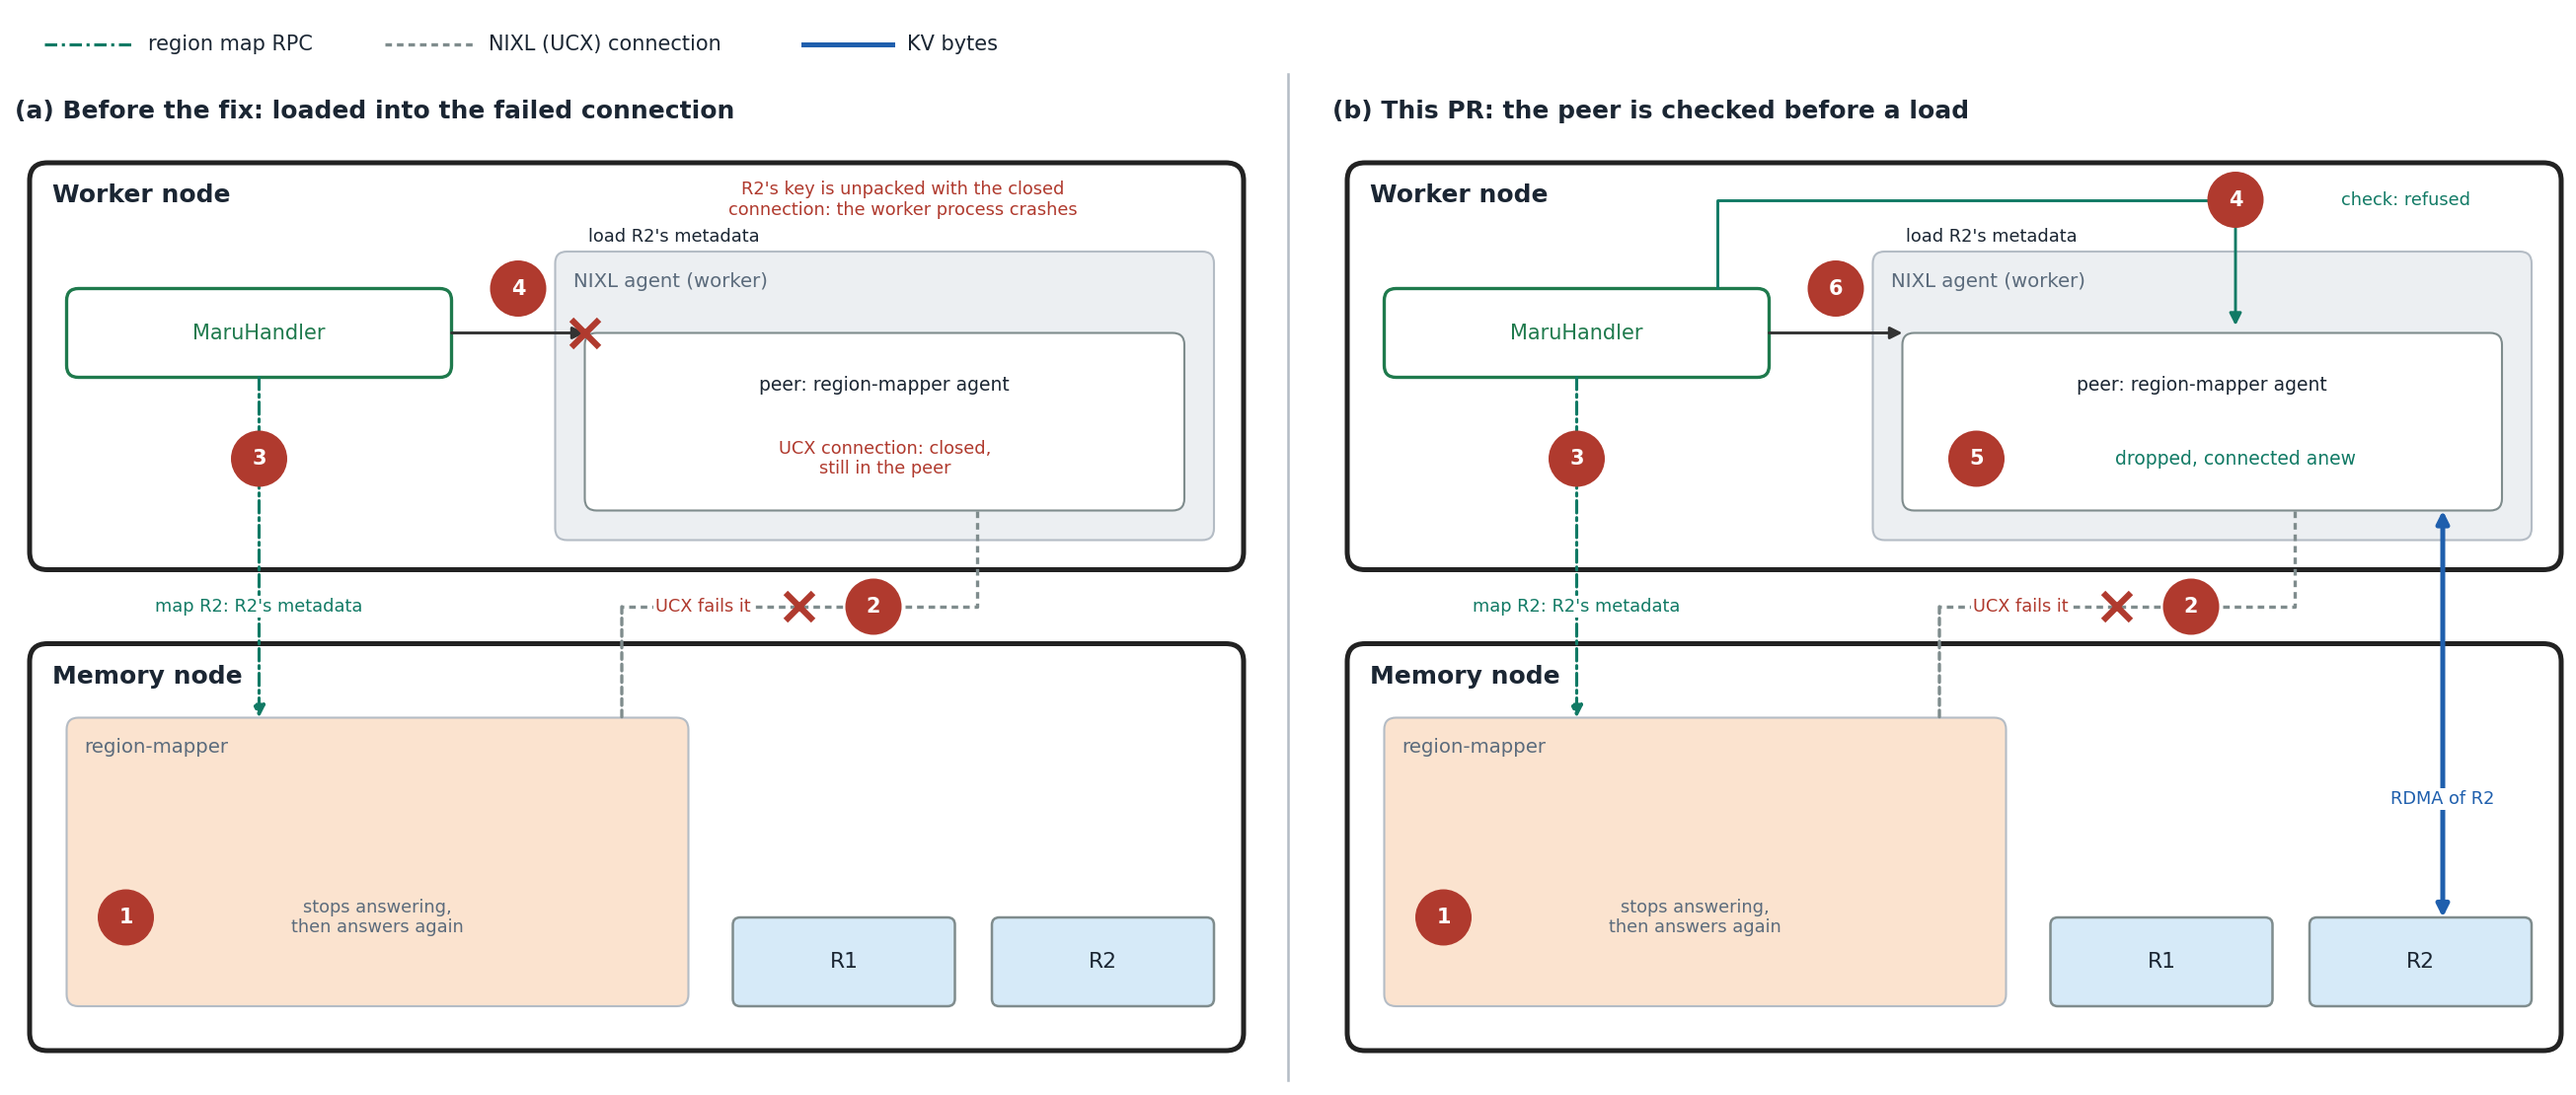
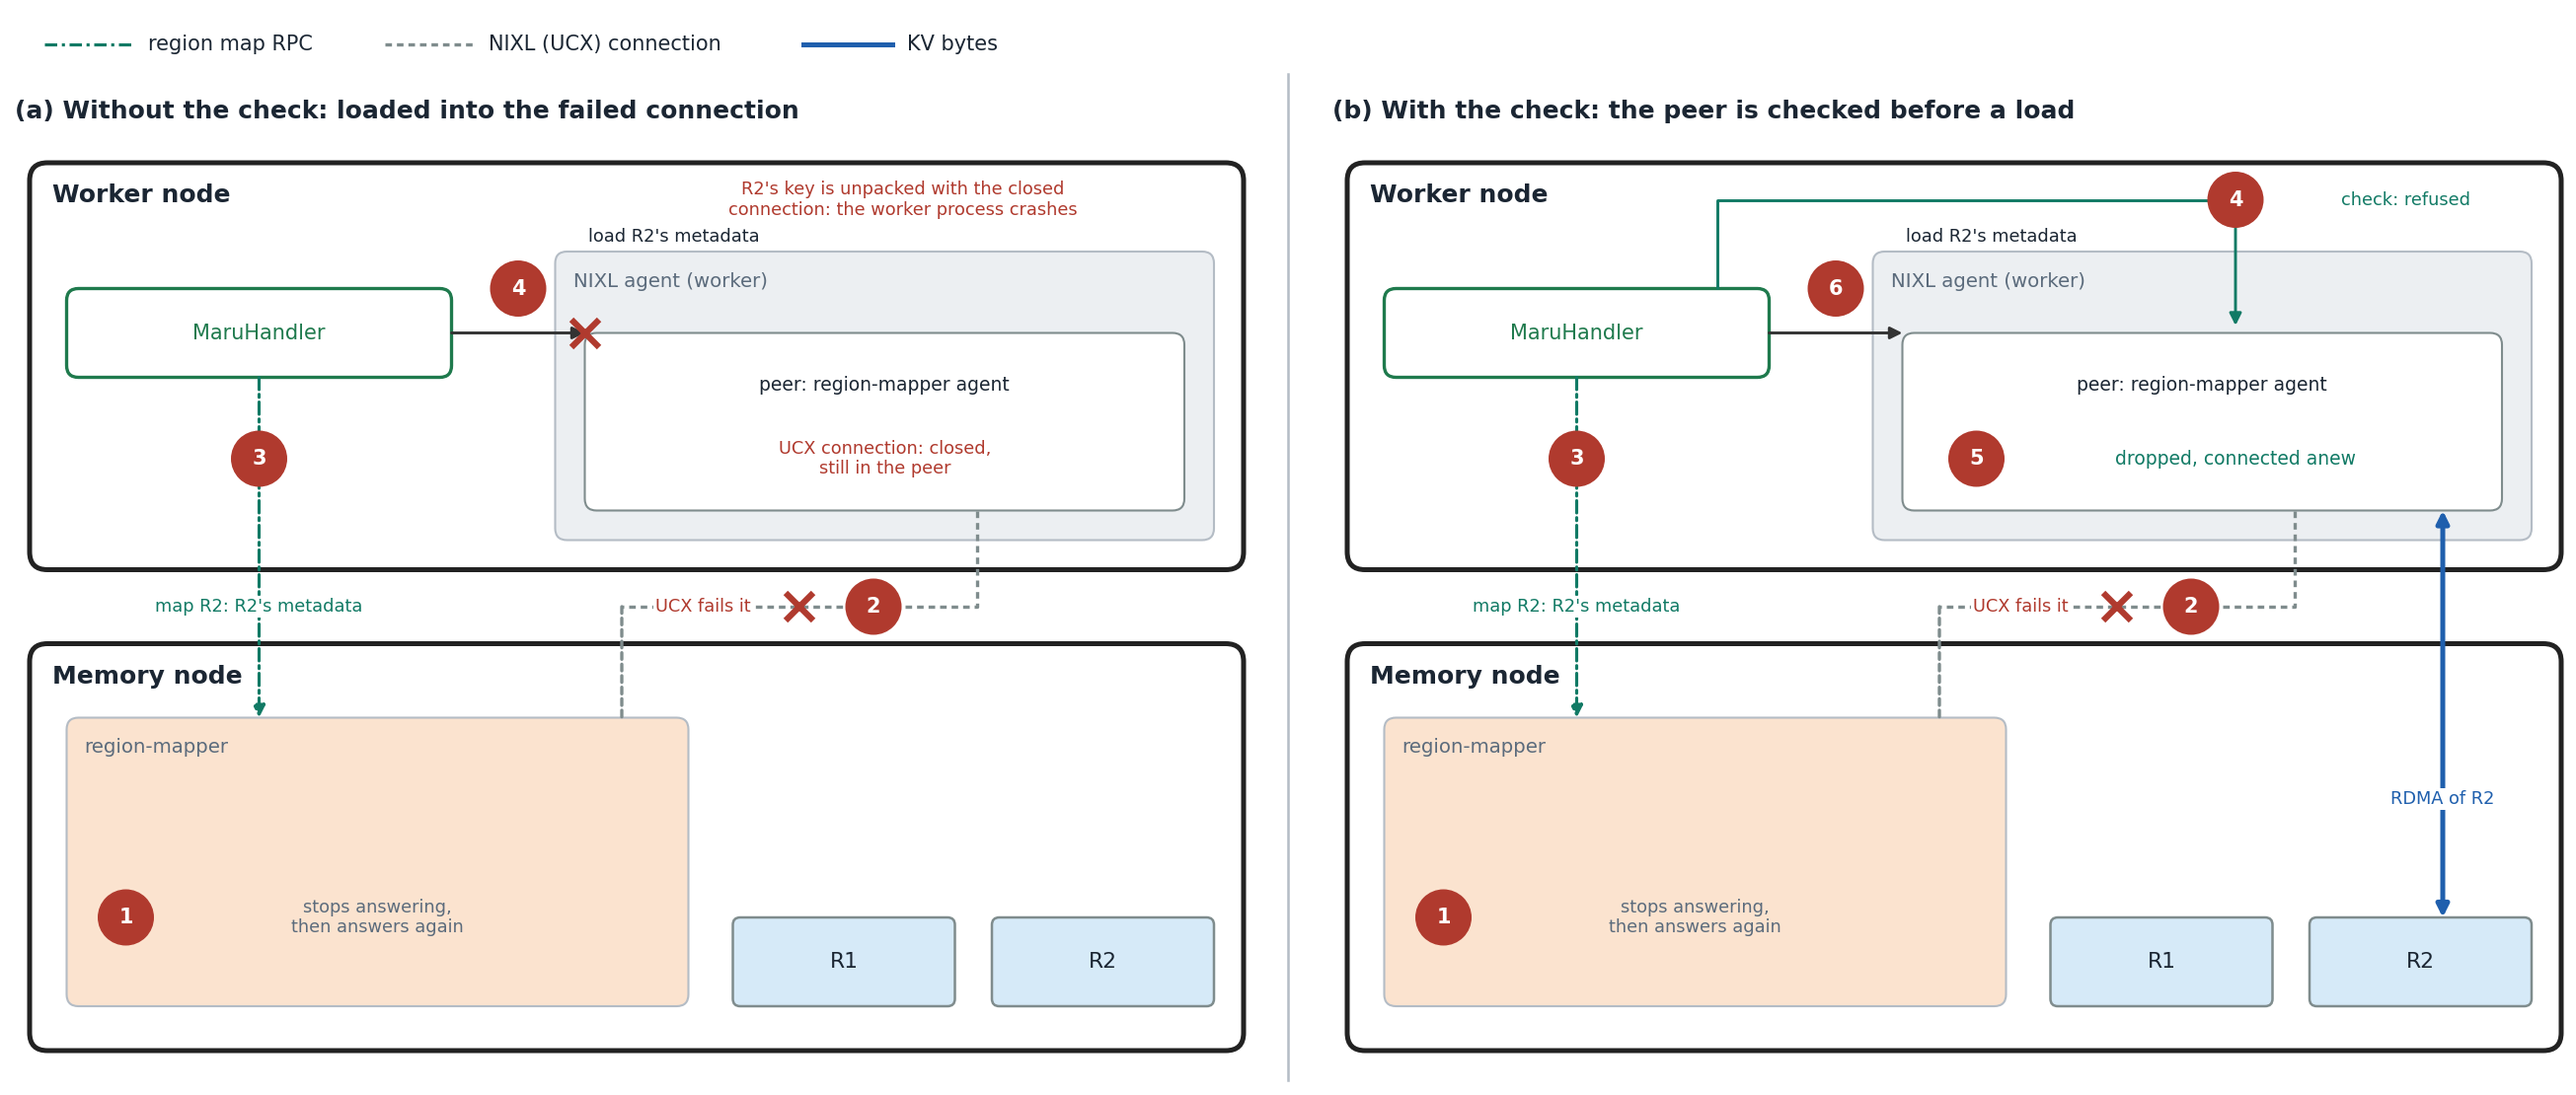
docs: a set-aside region keeps its keys through a short outage
The MaruHandler design says that a region set aside keeps its keys for 30
seconds and is used again if its region mapper answers in time, and that
no new region is asked for while no region mapper answers. The figure of
the NIXL connection check is titled by what it shows (without and with the
check).

Changed region(s): [[0.5276, 0.0919, 0.8069, 0.1225], [0.031, 0.0919, 0.3103, 0.1225]]

diff --git a/docs/source/design_doc/maru_handler.md b/docs/source/design_doc/maru_handler.md
@@ -266,13 +266,15 @@ the Handler asks MaruServer for its least recently used unleased keys
 confirmed that no key refers to it.
 
 **A memory node that stops answering.** A region whose region mapper cannot
-map it is set aside: its keys are removed, so probes stop reporting hits that
-would fail to read, and a background retry maps it again. A region mapper
-that left a request unanswered stays so until a later request to it (a map,
-or the heartbeat's boot check every 10 seconds) is answered. Until then
-stores take no pages in its regions and eviction picks no keys there; with no
-other region the store is skipped, since no WRITE could reach the freed
-pages. When the memory node answers again, the Handler maps its regions anew.
+map it is set aside, and a background retry maps it again. If the retry
+succeeds within 30 seconds (a region mapper restart), the region is used
+again with its keys; otherwise its keys are removed, so probes stop reporting
+hits that would fail to read, as MaruServer does for a region it took over.
+A region mapper that left a request unanswered stays so until a later request
+to it (a map, or the heartbeat's boot check every 10 seconds) is answered.
+Until then stores take no pages in its regions, eviction picks no keys there
+and no new region is asked for; with no other region the store is skipped,
+since no WRITE could reach the freed pages. When the memory node answers again, the Handler maps its regions anew.
 Before it loads a map reply into a NIXL peer (NIXL's record of a remote agent:
 its metadata and its UCX connection) that it already knows, it checks that
 the connection has not failed and otherwise drops the peer and connects anew.
